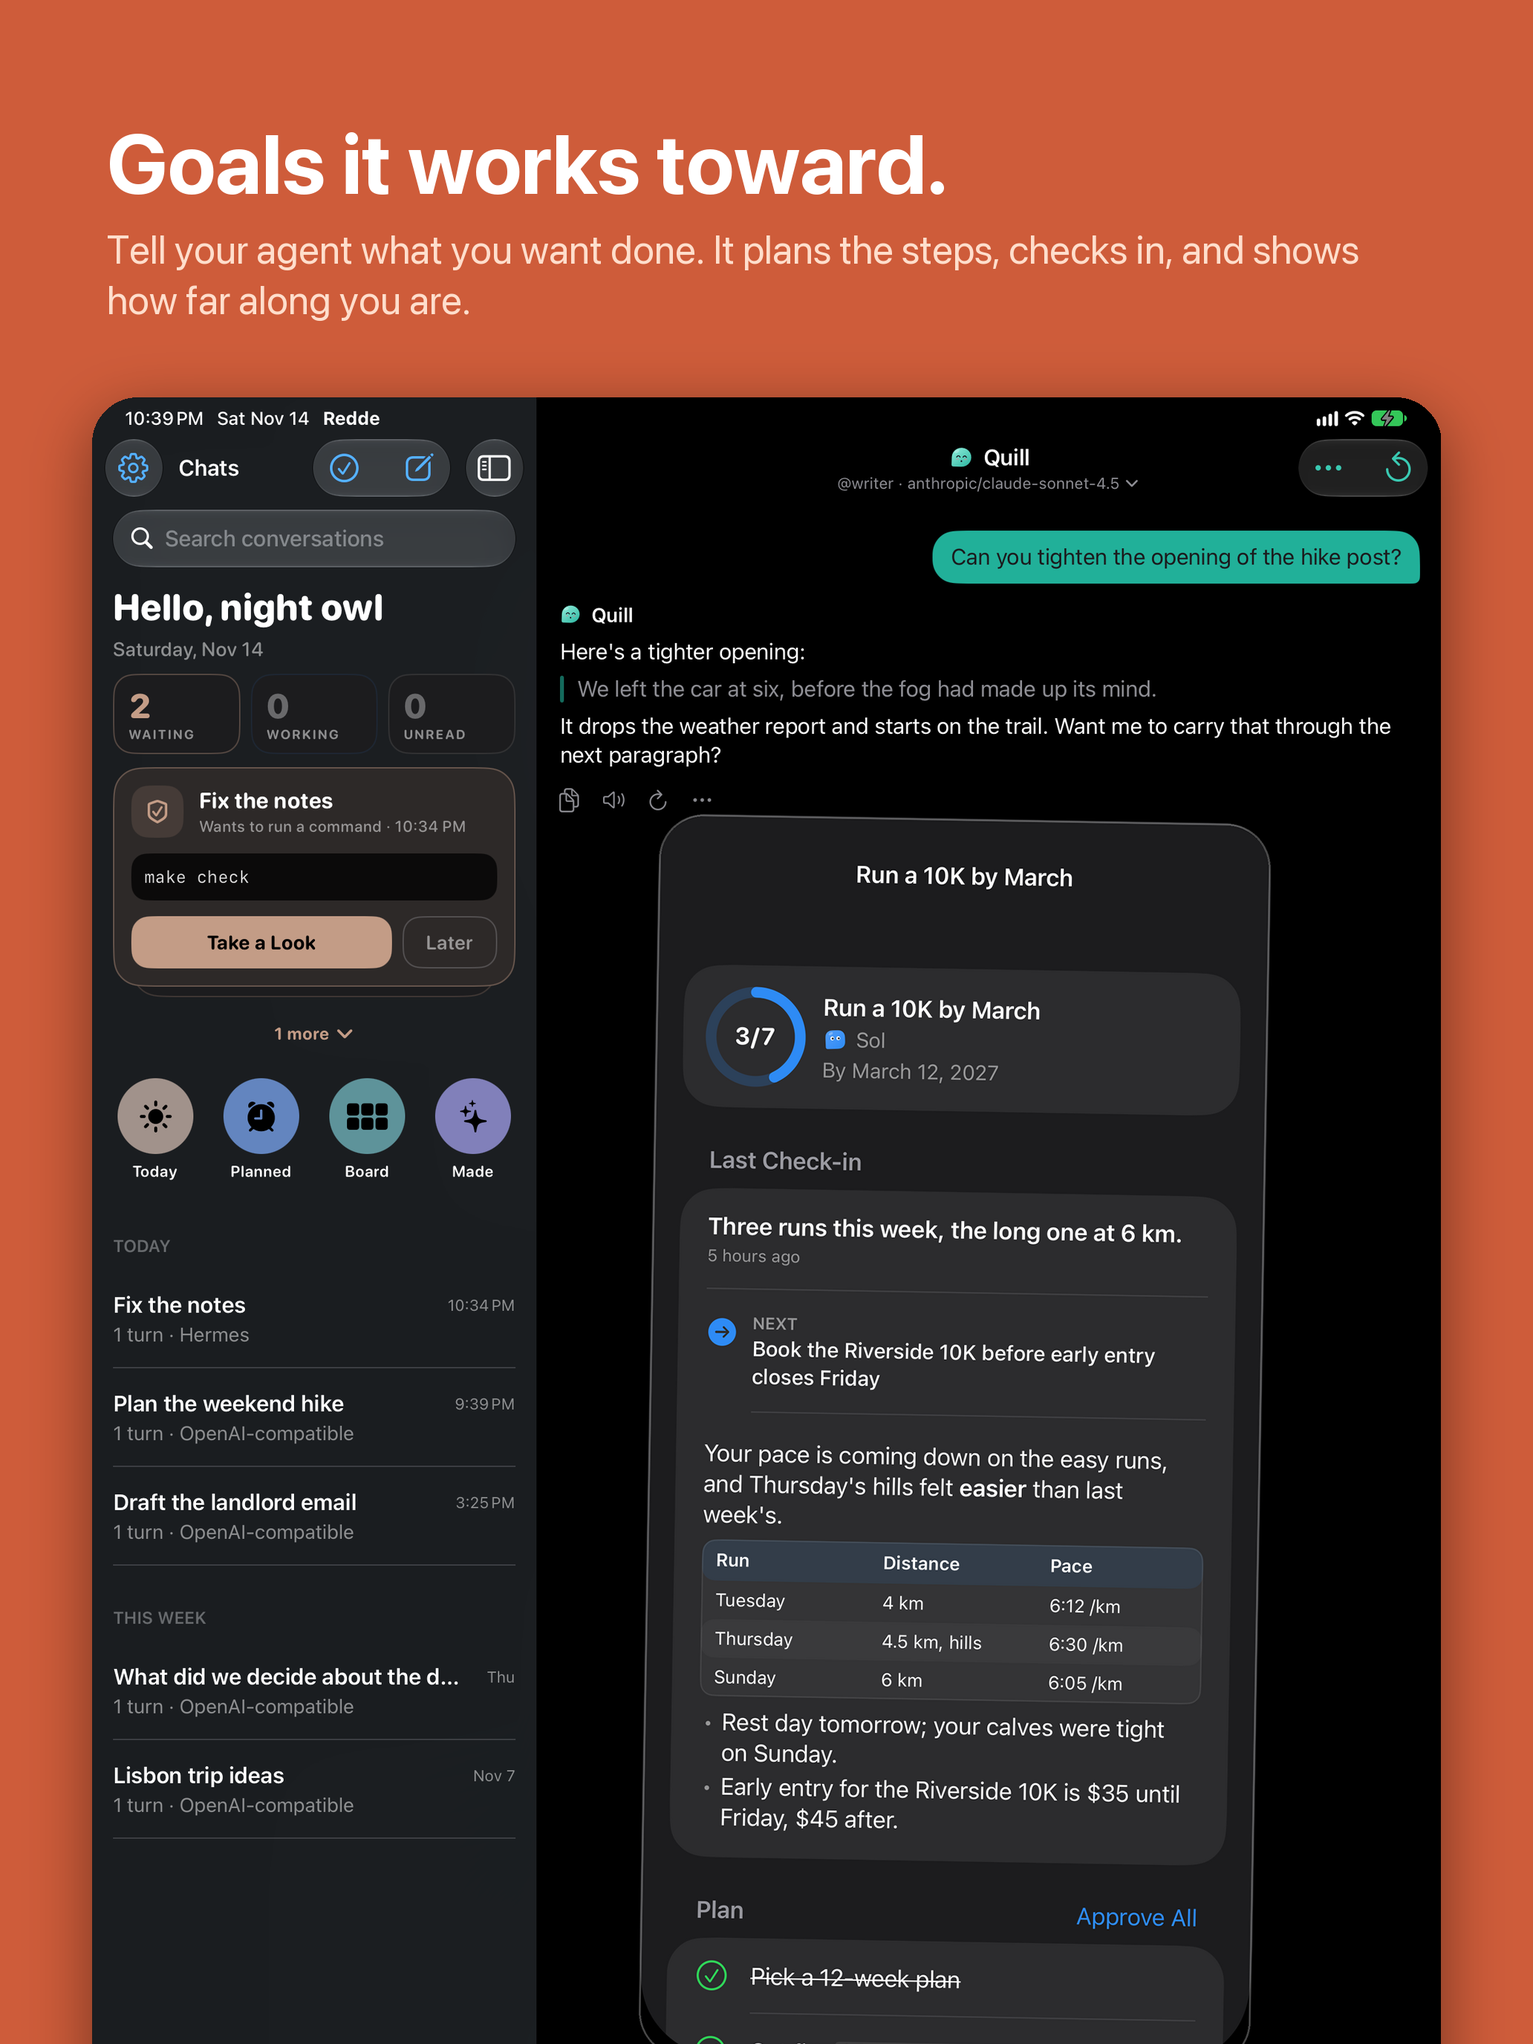
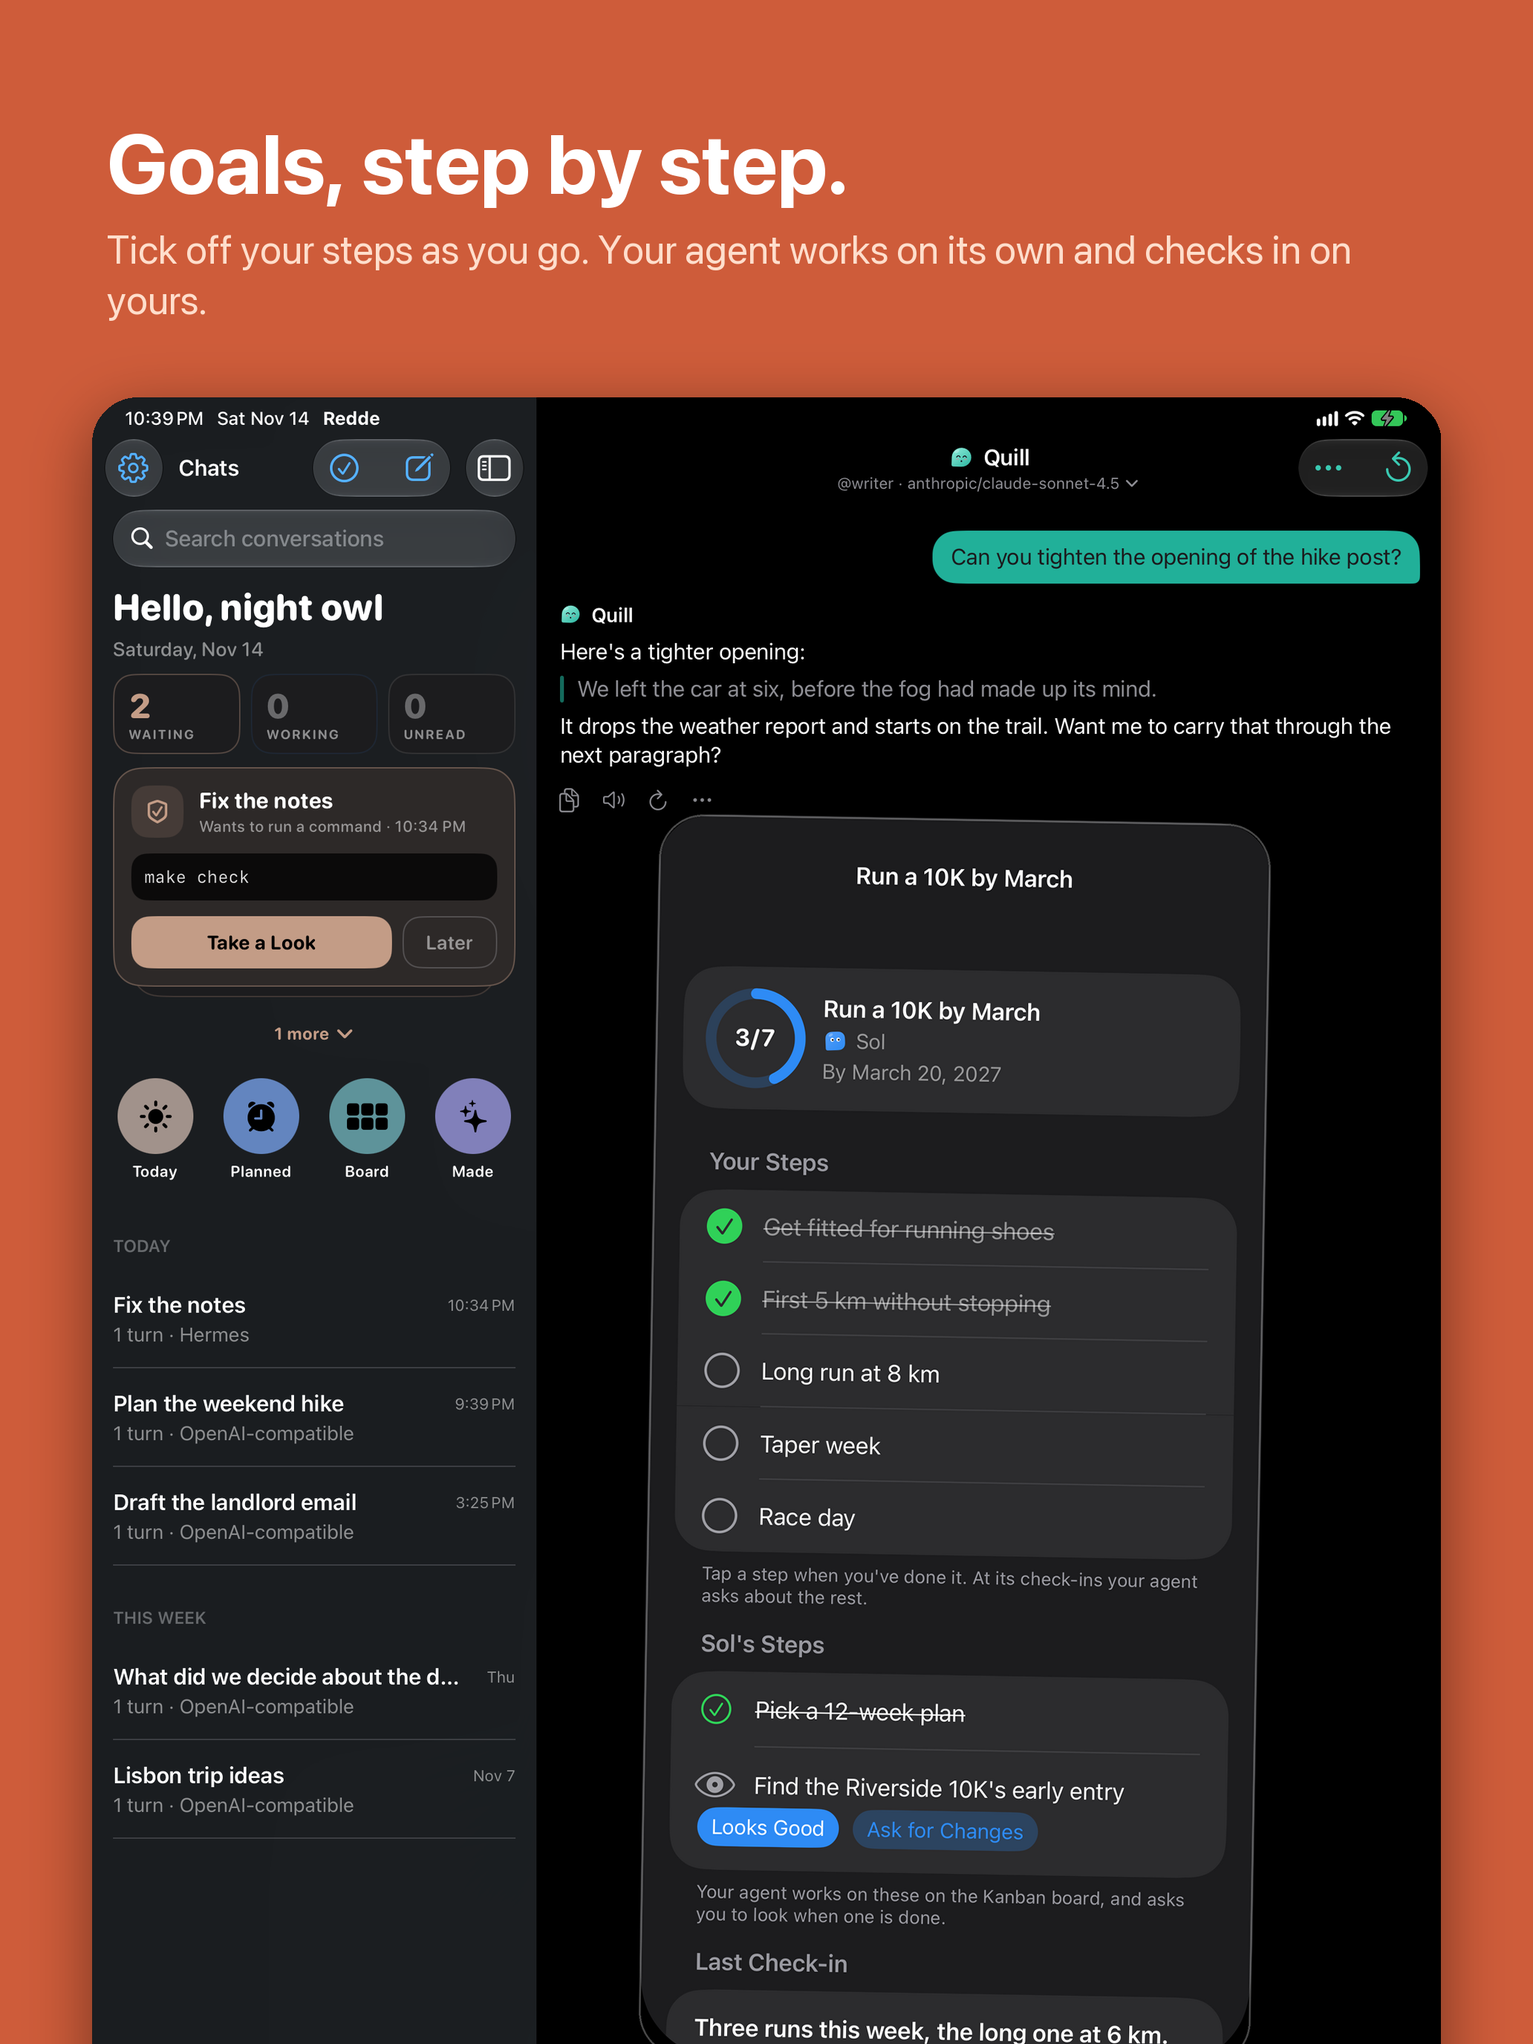
2.7 store page: copy, goals screenshots, sent to App Store Connect
Promotional text and description for 2.7 (agents asking each other, goals
you tick off, skills from the hub, the Webapp), What's New with goals and
plugin 1.35. The goals slot retaken for its new page, "Goals, step by
step.", iPhone and iPad. Version 2.7 made in App Store Connect with the
copy, the two pictures and the iPhone App Preview.

Claude-Session: https://claude.ai/code/session_01U63qthNhNmE4UNWX56qMNU

diff --git a/design/screenshots/compose.py b/design/screenshots/compose.py
@@ -222,7 +222,7 @@ phone = [
   ('ph-inbox',    '04-inbox',    'Your inbox, sorted.',          'Seven piles and your own, sorted on your server. Nothing sends until you approve it.', BLUE, WHITE, MIST,
    [(READER, 0.80, (0.50, 0.66), -1.5)]),
   ('ph-today',    '05-today',    'What needs you, first.',       'Approvals, what’s working, your team and your day, at the top of your chats.', (24, 32, 46), WHITE, MIST),
-  ('ph-goal',     '06-goals',    'Goals it works toward.',       'Tell your agent what you want done. It plans the steps, checks in, and shows how far along you are.', CORAL, WHITE, PEACH),
+  ('ph-goal',     '06-goals',    'Goals, step by step.',         'Tick off your steps as you go. Your agent works on its own and checks in on yours.', CORAL, WHITE, PEACH),
   # 2.3.1: things to buy (the agent's pick, prices, stock), with a flight and the home's controls over it.
   ('ph-purchase', '07-answers',  'Answers you can use.',         'Things to buy with your agent’s pick, flights, your home’s lights. Cards, not walls of text.', TEAL, WHITE, MINT,
    [(FLIGHT, 0.45, (0.245, 0.865), -1.5), (HOME, 0.43, (0.765, 0.855), 1.5)], 2380),
@@ -239,7 +239,7 @@ pad = [
    [(INBOX, 0.40, (0.60, 0.28), -1.5), (READER, 0.36, (0.70, 0.66), 1.5)]),
   ('pad-today',        '05-ipad-today', 'What needs you, first.',      'Approvals, what’s working, your team and your day, at the top of your chats. Coming Up shows what’s next.', (24, 32, 46), WHITE, MIST,
    [(COMINGUP, 0.44, (0.64, 0.42), 1.0)]),
-  ('pad-today',        '06-ipad-goals',  'Goals it works toward.',      'Tell your agent what you want done. It plans the steps, checks in, and shows how far along you are.', CORAL, WHITE, PEACH,
+  ('pad-today',        '06-ipad-goals',  'Goals, step by step.',        'Tick off your steps as you go. Your agent works on its own and checks in on yours.', CORAL, WHITE, PEACH,
    [(GOAL, 0.40, (0.64, 0.58), -1.0)]),
   ('pad-purchase',     '07-ipad-answers', 'Answers you can use.',      'Things to buy with your agent’s pick, flights, your home’s lights. Cards, not walls of text.', TEAL, WHITE, MINT,
    [(FLIGHT, 0.28, (0.19, 0.60), -1.5), (HOME, 0.24, (0.19, 0.80), 2.0)]),

diff --git a/docs/app-store-listing.md b/docs/app-store-listing.md
@@ -13,7 +13,7 @@ Voice Chat & Coding Agents
 No other company's product names here or in the keywords (Claude Code, Codex, Hermes): Apple rejects them in metadata. Nor Apple's own: 2.6 (295) was rejected 2026-11-17 under 5.2.5 for "Voice Chat, Coding & CarPlay" (CarPlay in the subtitle); this subtitle went in that day and the same build was resubmitted. CarPlay named as a feature in the description passed.
 
 ## Promotional text (170, editable without a new build)
-New in 2.6: Claude Code, Codex and other agents through the free Redde bridge, a new drawer that starts with what needs you, Maps for your agent, and smarter replies.
+New in 2.7: your agents ask each other, with you in the loop. Goals you tick off step by step, skills from the hub, and pictures in agent chats.
 
 ## Keywords (100, comma-separated, no spaces after commas; don't repeat words from the name or subtitle)
 assistant,self-hosted,llm,bots,watch,siri,shortcuts,private,chatbot,local,homelab,code,terminal,acp
@@ -25,7 +25,7 @@ Redde is a complete iPhone, iPad and Mac client for your own AI agent: Hermes, t
 You bring the backend. Redde has no account and no analytics, and your conversations go only to your server, and to a voice service if you pick one.
 
 AHEAD OF YOUR DAY
-• Goals: tell your agent what you want to get done. It plans the steps, checks in on a schedule and shows your progress above your chats.
+• Goals: agree a plan with your agent and tick off your steps as you go, while it works on its own and checks in on yours.
 • Morning Ideas, a Week Ahead and an Evening Wrap-up arrive as cards. Leave-By Alerts work out from your calendar and Apple Maps when to go.
 • "Let me know when it ships": watches and follow-ups come back on their own.
 • Answers come as cards: your day, the weather, places on a map, prices with a deal meter, a list to tick off.
@@ -36,7 +36,7 @@ CODING AGENTS
 
 BOTS
 • Each Hermes profile is a bot with a face, a voice and a chat of its own. Start from a template and make its job, model and tools your own.
-• Type @ to hand work to another bot, or put two to six in a group chat. A bot can work in the background and tell you when it's done. Give one a schedule and its answer arrives with a notification, even with Redde closed.
+• Type @ to ask any agent, a bot or Claude Code; your agent can ask one too, if you say yes. Or put two to six bots in a group chat. A bot can work in the background and tell you when it's done. Give one a schedule and its answer arrives with a notification, even with Redde closed.
 
 TALK, DON'T TYPE
 • Tap the mic or say "Hey" and your agent's name, or show it what the camera sees. Speech is recognized on your device; replies are read by the built-in voice, Kokoro, ElevenLabs or your Hermes.
@@ -50,12 +50,12 @@ SEE THE AGENT WORK
 A FULL CLIENT
 • Start a chat on the phone, continue on the desktop. Search, pin, fork, quote, or go incognito.
 • An email inbox your agent sorts into piles, yours too, with rules you set. Gmail or any mailbox; nothing is sent until you approve it.
-• Projects, scheduled jobs, a Kanban board, skills, plugins, memory you can edit, MCP servers, files and an SSH terminal.
+• Projects, scheduled jobs, a Kanban board, skills from the hub, plugins, memory you can edit, MCP servers, files and an SSH terminal.
 • Phone tools: your agent can use your calendar, reminders, contacts, photos, Apple Home, Maps and the Health data you choose, set alarms and start calls and texts, each only if you allow it.
-• Markdown, code, tables, diagrams and math; pictures, PDFs and audio open in place.
+• Markdown, code, tables, diagrams and math; pictures, PDFs and audio open inline.
 
 YOUR BACKEND, YOUR RULES
-• Connect through the Hermes Dashboard or API, on your LAN, a tailnet, or behind Cloudflare Access, Pangolin or a reverse proxy. Several servers, synced with iCloud.
+• Connect through the Hermes Dashboard, Webapp or API, on your LAN, a tailnet, or behind Cloudflare Access, Pangolin or a reverse proxy. Several servers, synced with iCloud.
 • Or go straight to any OpenAI-compatible endpoint: llama.cpp, llama-swap, vLLM, Ollama or a hosted provider.
 • Set up by QR code, and set models and keys from the phone. Credentials stay in the Keychain.
 • In 17 languages. Face ID lock, nine themes, iPad split view, iPhone Duo, and a native Mac app.
@@ -79,6 +79,7 @@ Your agents talk to each other, with you in the loop. Skills from the hub, pictu
 
 • Every agent can ask every other by @mention: your Hermes bots, the agents on your Redde bridge (Claude Code, Codex and the rest) and the bots on your other servers. Tag one in your message, or let your agent ask one itself: the answer shows in your chat and your agent carries on with it. In voice mode the answers are read aloud too.
 • Ask Me First, on from the start: before an agent asks another, or a Hermes bot hands its work to another, Redde asks you, with Ask or Don't on a card, in the chat or out loud. Settings → Replies & Writing → Agents Talking to Each Other has the switches.
+• Goals you tick off: a goal's plan says which steps are yours and which your agent's. Tick yours off on the goal or from its Today tile and the count moves at once. Your agent starts on its own steps as soon as you agree the plan in the chat, with no second approval, and asks about yours at its check-ins.
 • Skills from Hermes's skills hub: Find Skills, see what one does and install it, checked by Hermes's scanner before it goes on.
 • Pictures in agent chats: what Claude Code or Codex sends or reads shows in the chat, and a file a reply names opens on your phone.
 • A long paste goes beside your message as a text file, instead of filling the field.
@@ -93,19 +94,20 @@ Your agents talk to each other, with you in the loop. Skills from the hub, pictu
 • Hermes 0.23 supported, its Webapp too: choose Dashboard or Webapp and give the Webapp's address and port.
 • Fixes: deleting a chat on the Dashboard closes its session first (GitHub #78). A failed schedule no longer notifies you where it shouldn't (#79). Chats stay with the right session on the Dashboard (#81). A listening language whose model isn't on the phone is downloaded, not shown as ready (#83). A reply Hermes stops for taking too long ends in Redde too, with Retry. Buttons are easy to read on a pale theme colour. Ahead of Your Day shows how much of it is on. A briefing's tile on Today can stop its notifications. The Inbox shows its Unsorted pile while mail waits to be sorted. A three-digit Inbox count stays on one line. A new chat shows in the iPad sidebar at once. A map shows for an address in "today at 200 East Robinson St, …".
 
-Agents asking each other and Ask Me First for Hermes bots take the Redde plugin 1.32 on your Hermes, cleared notifications 1.33, and briefings the same on every device 1.34: Settings → Redde Plugin offers the update. Pictures in agent chats take the Redde bridge 0.11.
+Agents asking each other and Ask Me First for Hermes bots take the Redde plugin 1.32 on your Hermes, cleared notifications 1.33, briefings the same on every device 1.34, and ticking off goal steps 1.35: Settings → Redde Plugin offers the update. Pictures in agent chats take the Redde bridge 0.11.
 
 ## Before submitting 2.7
 - The build is 2.7 (296), iPhone and iPad, archived from main once everything is committed and pushed.
-- In-app What's New 2.7: seven items in 17 languages (agents asking each other, Ask Me First, skills hub, pictures in agent chats, saving pictures, briefings on Your Day, Report a Problem).
+- In-app What's New 2.7: eight items in 17 languages (agents asking each other, Ask Me First, goals you tick off, skills hub, pictures in agent chats, saving pictures, briefings on Your Day, Report a Problem).
 - The Watch-only live call (53365bf) is left out: it has run only in the simulator. Try it on a real watch first (its socket rules differ), then add a line.
-- The relay is deployed for cleared notifications (2026-11-19). Plugin 1.34.0 (briefing choices on every device) and bridge 0.11 must be on main, and the plugin's GitHub release published at release.
+- The relay is deployed for cleared notifications (2026-11-19). Plugin 1.35.0 (goal steps yours or the agent's; 1.34 briefing choices on every device) and bridge 0.11 must be on main, and the plugin's GitHub release published at release.
 - Run the unit tests and the whole UI suite, then put Release on an iPhone and an iPad and launch-check both.
 - App Privacy stays "Data Not Collected": Report a Problem copies a report or opens GitHub in the browser, and Redde sends nothing; the skills hub is asked by the person's own Hermes; @mentions go between the person's own servers and bridges; Save to Photos adds a picture (add-only permission, NSPhotoLibraryAddUsageDescription, in 17 languages).
 - The privacy policy: docs/privacy.md (November 22 lines: agents asking each other, Find Skills through the server, cleared notifications, briefing choices on the server, Save to Photos, Report a Problem). Publish it before submitting.
 - The review notes (docs/app-review-notes.md) fit again: 3,908 characters with the placeholder, Save to Photos's permission added. `scripts/app-store-push.py notes` puts the key in and sends them.
 - What's New 2.6 said "Settings → Set up connection…"; 2.7's text names Connection → Set up connection… where it comes up.
 - Close GitHub #78, #79, #81 and #83 at release.
+- Sent to App Store Connect 2026-11-22 (version 2.7 made): copy, the new 06-goals pictures, and the iPhone App Preview (redde-27). The iPad preview is still 2.3.1's day cut.
 
 ## What's New in 2.6 (4000)
 Claude Code, Codex and other agents, a new drawer, and better suggested replies.

diff --git a/design/screenshots/README.md b/design/screenshots/README.md
@@ -4,6 +4,8 @@
 
 Regenerate: `design/screenshots/capture.sh <raw-shots-dir>` builds the Debug app and captures every raw shot on the iPhone 18 Pro Max and iPad Pro 13-inch simulators with the dev flags (`-echo.demo`, `-echo.demoShort`, `-echo.demoTwo`, `-echo.demoLibrary`, `-echo.voiceView`, `-echo.voiceDemo` (voice mode posed mid-listen), `-echo.expandAppIcons` (Settings' App icon grid open), `-voiceOrb <name>`, `-echo.screen settings|sessions|setup`, `-echo.demoHosts` (example endpoints, never personal ones), `-theme <standard|paper|slate|terminal|amber|githubDark|claudeCode>`, `-transport chatCompletions`, `-setupDone YES`) and a 9:41 status bar; then run `/usr/bin/python3 compose.py <raw-shots-dir> design/screenshots` (the system Python has Pillow).
 
+For 2.7 (2026-11-22): only `06-goals` / `06-ipad-goals` again, "Goals, step by step.": the goal's page now has Your Steps to tick and the agent's steps apart (`ph-goal` retaken on "Redde Shots 2.4 iPhone" with `-echo.demoGoals -echo.screen goal`, the rest of the raw shots copied from 2.6 into the git-ignored `tmp/shots-2.7-raw`; `compose.py tmp/shots-2.7-raw design/screenshots 06-goals,06-ipad-goals`).
+
 For 2.6 (2026-11-14): `03-agents` / `03-ipad-agents` is new (the demo agent built into Redde stopped at its approval after "Fix the notes", Code theme; raw `ph-agent` / `pad-agent` from `StoreShotsUITests.testAgentAtWork`), `06-goals` / `06-ipad-goals` moved from slot 3, and `03-goals` and `06-memory` went. `04-inbox`, `05-today` and `06-ipad-goals` were taken again for the new drawer (`ph-today` / `pad-today` by hand with `-echo.demoBotWait -echo.demoUpNext -echo.demoBots` and the Mac's clock; the phone's Today slot without the Coming Up overlay, which hid the team row). `08-bots` / `08-ipad-bots` is the crew's voice round again (`ph-crew` / `pad-crew` from 2.3's raw shots; the iPad's through `zoom.crew`): the chat list's Bots section of 2.4 had the old tabs, and the drawer's Bots page is mostly empty. The raw shots are in the git-ignored `tmp/shots-2.6-raw`, on the same two 2.4 simulators.
 
 For 2.4 (2026-11-06) four slots were replaced and the rest renumbered (see "2.4 slots" below): after the panorama come `03-goals`, `04-inbox`, `05-today`, `06-memory`, then 2.3's answers, bots and approvals as `07-answers`, `08-bots`, `09-approve` (`07-ipad-answers`, `08-ipad-bots`, `09-ipad-approve`; renamed, not retaken), and privacy. Out: `03-ahead`, `04-day`, `07-crew`, `09-car` and `09-ipad-backend` (compose.py still draws the car when `09-car` is named). The new slots were taken on two simulators made for them on iOS 27.0 ("Redde Shots 2.4 iPhone", an iPhone 18 Pro Max at 1320×2868, and "Redde Shots 2.4 iPad", an iPad Pro 13-inch (M5)); their raw shots are in the git-ignored `tmp/shots-2.4-raw`, and `compose.py tmp/shots-2.4-raw design/screenshots 03-goals,04-inbox,05-today,06-memory,03-ipad-goals,04-ipad-inbox,05-ipad-today,06-ipad-memory` draws only them.
